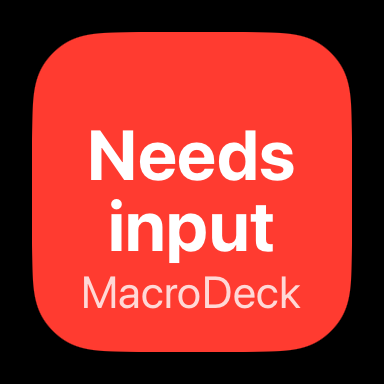
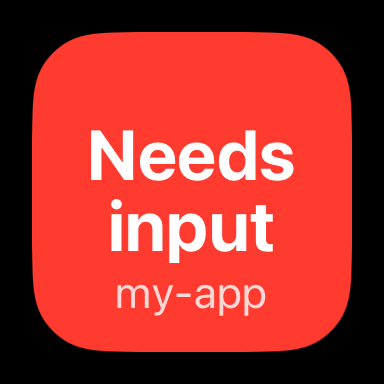
Docs: neutral project folder on the Claude Code needs input face
Redraw the recipe picture and its card thumbnail with my-app as the
project folder, update the alt text, and word the Variables anchor
comment like the other anchor comments.

Changed region(s): [[0.2188, 0.7188, 0.7812, 0.8438]]

diff --git a/assets/docs/pages/scripts.md b/assets/docs/pages/scripts.md
@@ -54,7 +54,7 @@ Write your own messages to stderr (`print -u2 "No network"`): that is the error 
 
 To name the kind of problem as well, a tap script reports it right before `exit 1`, and its toast then shows your words ([Script API › From a tap script](?p=api#from-a-tap-script)). A startup script reports a failure it survives, such as a network that is down ([Live widgets › Report what went wrong](?p=live-widgets#report-what-went-wrong)).
 
-<!-- Anchor used by the iOS app (EditorHelpLinks in the MacroDeck repo, the code editor's Variables › Learn More…): do not rename this heading. -->
+<!-- Anchor used by the iOS app (EditorHelpLinks: the Learn More… link in the code editor's Variables menu). Keep this heading text. -->
 ## Environment variables
 
 Every script a button runs gets the same small environment, which the agent builds from scratch. The code editor's ⋯ › **Variables** menu lists the three entries you write in scripts.

diff --git a/assets/docs/pages/recipes-alerts.md b/assets/docs/pages/recipes-alerts.md
@@ -419,7 +419,7 @@ How it works:
 
 When Claude Code waits for you, a hook turns the button red and names the project. A tap or your next prompt clears it.
 
-<img src="assets/docs/img/recipes-alerts/claude-needs-input.png" width="160" height="160" alt="A red button face: Needs input in large white letters, and the project folder MacroDeck below">
+<img src="assets/docs/img/recipes-alerts/claude-needs-input.png" width="160" height="160" alt="A red button face: Needs input in large white letters, and the project folder my-app below">
 
 **Where it goes**
 
